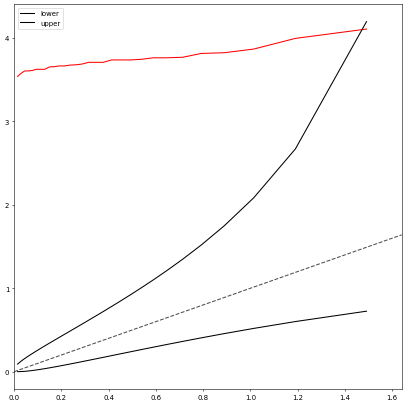
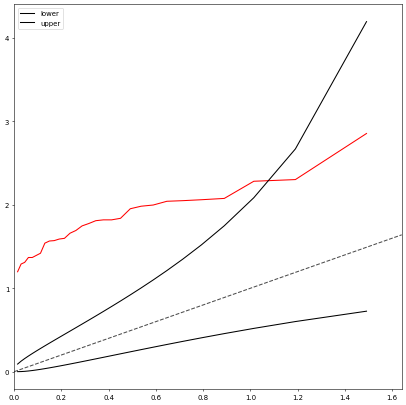
1200 mice, 10000 snps, 1200 traits, subsample 0.1, rho 1

diff --git a/test1.py b/test1.py
@@ -174,7 +174,7 @@ ctrl={
     'numTraits':1200,
     'pedigreeMult':.1,
     'snpParm':'geneDrop',
-    'mu':20,
+    'mu':15,
     'n_assoc':100,
     'rho':1,
     'maxEta':0.8,
